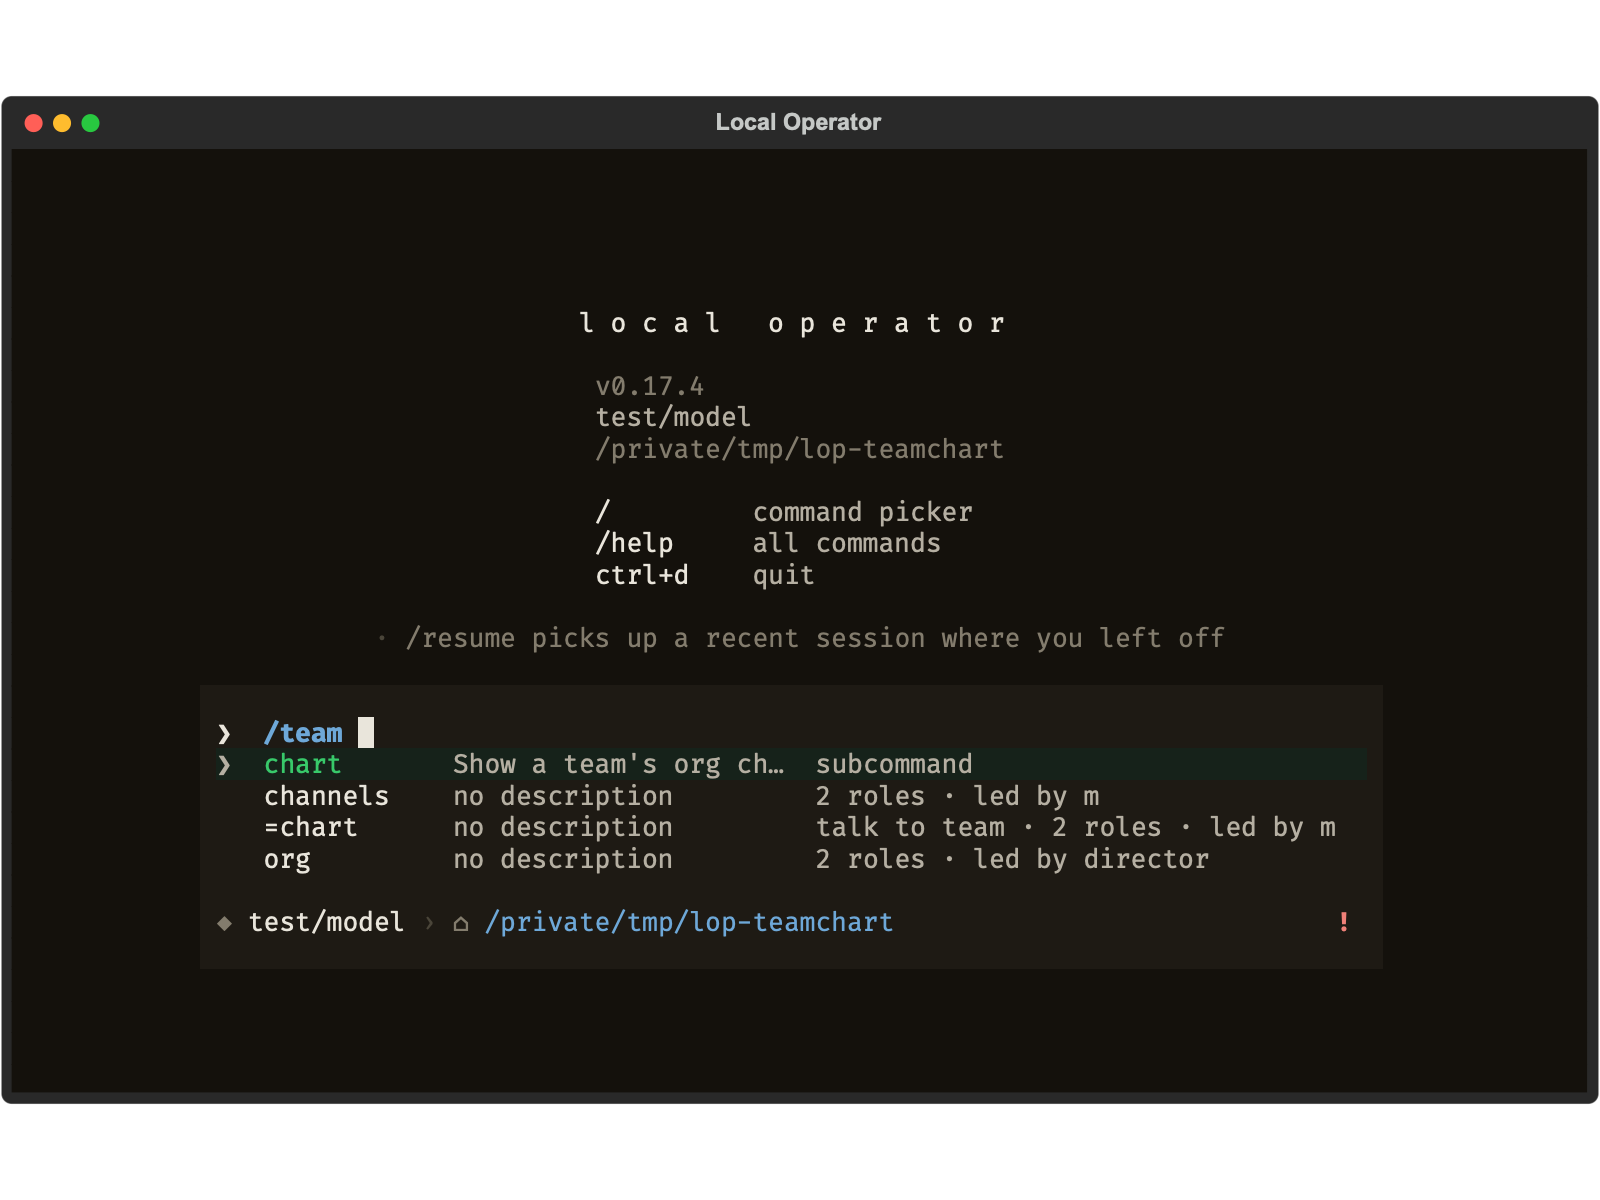
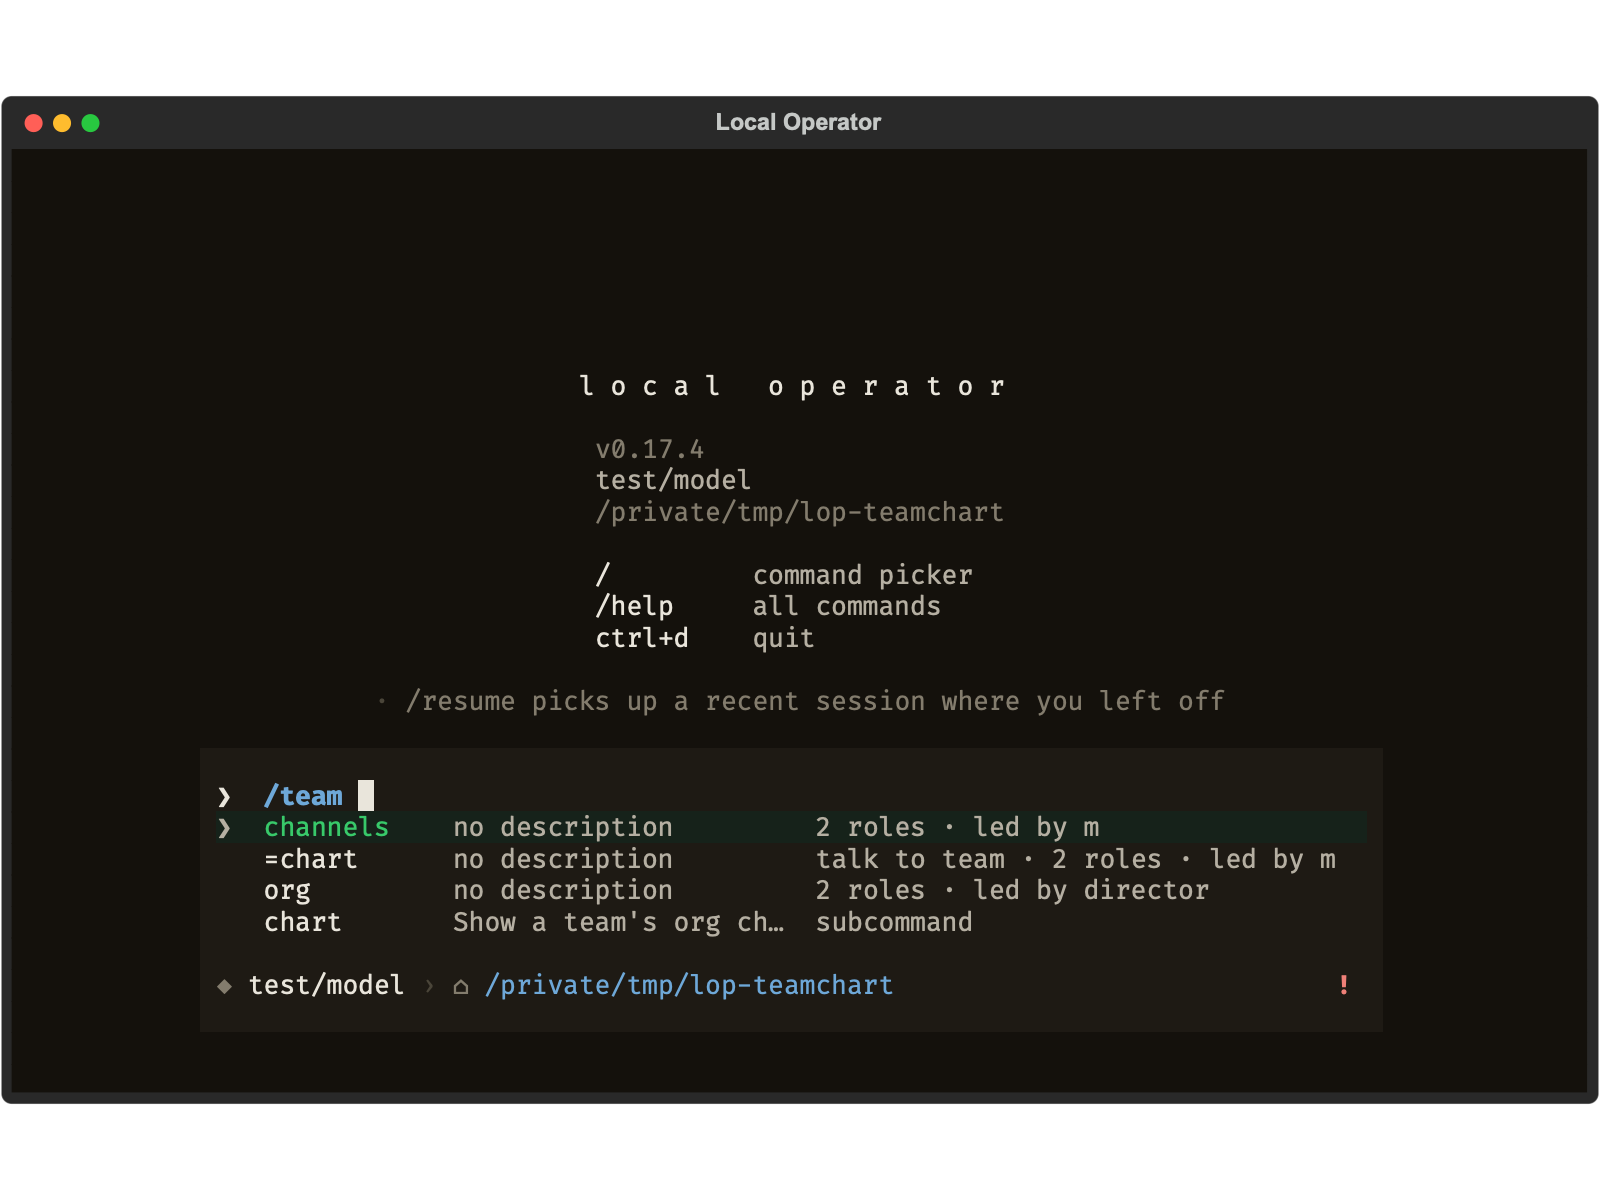
fix(team-chart): order /team picker team-first so Tab never charts
Integration fix for the merged tree: origin/main advanced with #250 ("run
slash commands inline"), which added the D5-regression invariant
test_completing_a_team_name_keeps_the_parked_hint — a bare `/team ` + Tab must
complete the sole team and park the switch/send hint. Our picker put the `chart`
subcommand row FIRST, so Tab completed to `chart` and broke that invariant, and
two of our own picker tests (which set editor.text directly) stopped opening the
list at all under #250's caret-anchored detection.

Reorder the first-slot picker so TEAM NAME rows come first and the `chart`
subcommand row is appended LAST. argument_suggestions returns list order for an
empty query, so bare Tab now completes the first/sole TEAM, never the
subcommand — preserving #250's invariant and improving collision-safety (Tab
never silently opens a chart when the user meant to message a team). `chart`
stays discoverable: it is visible in the list and the matcher ranks it to the
top the moment `c`/`ch`/`chart` is typed (a typed query is scored, not
list-ordered).

Editor two-level tracking: `/team` now refreshes the picker ONLY when crossing
into/out of the `chart ` second slot (tracked as a boolean, normalizing None and
"" to the same non-chart state), not on every first-token change. A team-NAME
first token is the talk path whose choice set never changes, so it posts no
refresh — the refresh handler clears the notice, which would wipe the
[…]

diff --git a/tests/unit/tui/test_team_chart.py b/tests/unit/tui/test_team_chart.py
@@ -69,6 +69,21 @@ async def _boot(pilot, app: OperatorApp) -> None:
             return
 
 
+async def _type(pilot, text: str) -> None:
+    """Type ``text`` into the focused editor via real key presses.
+
+    Post-#250 the picker's argument detection is caret-anchored: it syncs during
+    ``load_text`` while the caret is still at the origin, so setting ``editor.text``
+    directly and then moving the caret no longer opens the argument list. Driving
+    the buffer through real key presses is the path the app actually takes and the
+    only one that opens the picker — the same approach ``test_slash_echo`` uses.
+    """
+    for char in text:
+        await pilot.press("slash" if char == "/" else ("space" if char == " " else char))
+    await pilot.pause()
+    await pilot.pause()
+
+
 # -- routing dispatch table -------------------------------------------------
 
 
@@ -212,7 +227,16 @@ async def test_chart_unknown_team_is_an_error() -> None:
 
 
 @pytest.mark.asyncio
-async def test_picker_first_slot_offers_chart_subcommand_then_teams() -> None:
+async def test_picker_first_slot_offers_teams_first_then_chart_subcommand() -> None:
+    """The `/team ` first slot lists TEAM NAMES first, then the `chart` row.
+
+    Team-first is the ordering #250's D5 regression pins: a bare `/team ` + Tab
+    must complete the sole/first TEAM (the common action is talking to a team),
+    never the subcommand — so the `chart` row is offered but is NOT the default
+    completion. It stays discoverable (present in the list, and the normal
+    matcher ranks it up the moment the user types `c`/`ch`/`chart`).
+    """
+
     session = FakeSession()
     session.team_registry = _registry(
         TeamEditFields(name="org", manager="director", members=[TeamMember(role="coder")]),
@@ -221,23 +245,51 @@ async def test_picker_first_slot_offers_chart_subcommand_then_teams() -> None:
     app = OperatorApp(lambda: _factory(session))
     async with app.run_test(size=(120, 40)) as pilot:
         await _boot(pilot, app)
+        app.query_one(Editor).focus()
+        await _type(pilot, "/team ")
         editor = app.query_one(Editor)
-        editor.text = "/team "
-        editor.cursor_location = (0, len(editor.text))
-        await pilot.pause()
-        await pilot.pause()
         rows = [(c.name, c.detail) for c in editor.picker._choices]
-    # The subcommand row is FIRST and tagged.
-    assert rows[0] == ("chart", "subcommand")
-    # U3: a team literally named `chart` still appears as its own row, but it
-    # completes to the `=chart` ESCAPE (not the bare name, which would route to
-    # the subcommand) and its detail names the talk path — so the collision is
-    # resolvable from within the picker that creates it.
+    # Team rows come FIRST; the subcommand row is present but LAST (never the
+    # default Tab completion — see test_completing_a_team_name_keeps_the_parked_hint).
+    assert rows, "the team list must be populated"
+    assert rows[0][0] != "chart", f"a team must lead, not the subcommand: {rows}"
+    # The `chart` subcommand row is still offered — discoverable, ranked by query.
+    assert ("chart", "subcommand") in rows
+    assert rows[-1] == ("chart", "subcommand"), f"subcommand must rank last: {rows}"
+    # U3: a team literally named `chart` still appears, completing to the `=chart`
+    # ESCAPE (not the bare name, which would route to the subcommand); its detail
+    # names the talk path, so the collision is resolvable from the picker.
     assert ("=chart", "talk to team · 2 roles · led by m") in rows
     # A non-colliding team keeps its plain name.
     assert any(name == "org" for name, _ in rows)
     # The bare `chart` name is NOT offered as a team row (it would mis-route).
     assert ("chart", "2 roles · led by m") not in rows
+
+
+@pytest.mark.asyncio
+async def test_bare_tab_completes_a_team_not_the_chart_subcommand() -> None:
+    """A bare `/team ` + Tab fills the sole TEAM, not the `chart` subcommand.
+
+    The collision-safety guarantee behind team-first: Tab never silently opens a
+    chart when the user meant to message their team. Mirrors #250's
+    test_completing_a_team_name_keeps_the_parked_hint invariant for our ordering.
+    """
+
+    session = FakeSession()
+    session.team_registry = _registry(
+        TeamEditFields(name="security", manager="manager", members=[TeamMember(role="coder")]),
+    )
+    app = OperatorApp(lambda: _factory(session))
+    async with app.run_test(size=(120, 40)) as pilot:
+        await _boot(pilot, app)
+        app.query_one(Editor).focus()
+        await _type(pilot, "/team ")
+        editor = app.query_one(Editor)
+        assert editor.picker.is_open(), "the team list must open"
+        await pilot.press("tab")
+        await pilot.pause()
+        text = editor.text
+    assert text == "/team security ", text
 
 
 @pytest.mark.asyncio
@@ -250,11 +302,9 @@ async def test_picker_second_slot_reoffers_teams_feeding_the_chart() -> None:
     app = OperatorApp(lambda: _factory(session))
     async with app.run_test(size=(120, 40)) as pilot:
         await _boot(pilot, app)
+        app.query_one(Editor).focus()
+        await _type(pilot, "/team chart ")
         editor = app.query_one(Editor)
-        editor.text = "/team chart "
-        editor.cursor_location = (0, len(editor.text))
-        await pilot.pause()
-        await pilot.pause()
         names = [c.name for c in editor.picker._choices]
     # Second slot: `chart <name>` compound rows that complete to the chart.
     assert "chart org" in names

diff --git a/local_operator/tui/app.py b/local_operator/tui/app.py
@@ -2901,22 +2901,27 @@ class OperatorApp(App[None]):
         return choices
 
     def _team_argument_choices(self, editor: Any) -> list[ArgumentChoice]:
-        """Rows for the ``/team <…>`` list: the `chart` subcommand, then teams.
+        """Rows for the ``/team <…>`` list: team NAMES first, then `chart`.
 
-        Two-level, decided by the BUFFER like ``/mcp``'s builder: with nothing
-        typed yet the first argument slot offers the reserved `chart`
-        subcommand row FIRST (tagged so it reads as different in kind from a
-        team name — the same separation `/mcp` draws between verb rows and
-        server rows), then every team name (so a team literally named `chart`
-        still appears as its own row beneath the subcommand and is never
-        hidden). Once `chart ` is in the buffer the second slot re-offers TEAM
-        NAMES as `chart <name>` compound rows that FEED the chart — completing
-        one lands the ready-to-run `/team chart <name>`.
+        Two-level, decided by the BUFFER like ``/mcp``'s builder. In the first
+        argument slot the TEAM NAMES come first and the reserved `chart`
+        subcommand row is appended AFTER them. Order matters because it decides
+        the default completion: ``argument_suggestions`` returns rows in list
+        order for an empty query, so a bare ``/team `` + Tab completes the sole
+        (or first) TEAM, never the subcommand. That preserves #250's invariant
+        (Tab fills the sole team and parks the switch/send hint) AND improves
+        collision-safety: the common action on ``/team `` is TALKING to a team,
+        so Tab must never silently open a chart when the user meant to message.
+        The `chart` row is still fully discoverable — it is visible in the list
+        and the normal matcher ranks it to the top the moment the user types
+        ``c``/``ch``/``chart`` (a typed query is scored, not list-ordered).
 
-        The compound-name shape is the same crank `/mcp login <server>` uses:
-        the matcher compares against the WHOLE argument, so the server/team
-        rows must carry the leading verb or they would not match once it is
-        typed.
+        Once ``chart `` is in the buffer the second slot re-offers TEAM NAMES as
+        ``chart <name>`` compound rows that FEED the chart — completing one
+        lands the ready-to-run ``/team chart <name>``. The compound-name shape
+        is the same crank ``/mcp login <server>`` uses: the matcher compares
+        against the WHOLE argument, so the rows must carry the leading verb or
+        they would not match once it is typed.
         """
 
         from local_operator.tui.widgets.command_picker import slash_argument
@@ -2934,14 +2939,10 @@ class OperatorApp(App[None]):
                 )
                 for team in teams
             ]
-        # First slot: the subcommand row first, then team names.
-        rows: list[ArgumentChoice] = [
-            ArgumentChoice(
-                "chart",
-                "Show a team's org chart",
-                detail="subcommand",
-            )
-        ]
+        # First slot: TEAM NAMES first (so bare Tab completes a team, not the
+        # subcommand — #250's invariant + collision-safety), then the `chart`
+        # subcommand row last.
+        rows: list[ArgumentChoice] = []
         # U3 — a team whose name collides with the reserved `chart` word cannot
         # be talked to via its plain name from the picker: completing `chart`
         # routes to the SUBCOMMAND, not the team. So its row completes to the
@@ -2960,6 +2961,15 @@ class OperatorApp(App[None]):
                 )
             else:
                 rows.append(team)
+        # The subcommand row is offered AFTER the team names — discoverable and
+        # rank-able by query, but never the default Tab completion (see above).
+        rows.append(
+            ArgumentChoice(
+                "chart",
+                "Show a team's org chart",
+                detail="subcommand",
+            )
+        )
         return rows
 
     def _team_list_block(self, teams: list[Any]) -> RichBlock:

diff --git a/local_operator/tui/widgets/editor.py b/local_operator/tui/widgets/editor.py
@@ -2680,11 +2680,46 @@ class Editor(TextArea):
                 # command WORD, so without this the first-slot rows would stay
                 # up after the subcommand was completed and the second slot
                 # would have nothing to offer. Tracked rather than refreshed per
-                # keystroke: the row set only changes when the first token does.
-                subcommand = list_argument.partition(" ")[0].lower() if list_argument else ""
-                if subcommand != self._argument_subcommand:
-                    self._argument_subcommand = subcommand
-                    self.post_message(RefreshArgumentChoices(command))
+                # keystroke: the row set only changes when the sub-slot does.
+                first_tok, sep, _tail = (list_argument or "").partition(" ")
+                if command == "mcp":
+                    # `/mcp` is per-verb: every verb has a distinct server list,
+                    # so the tracking key is the verb token and any change posts
+                    # a refresh (verbs while it is bare, servers once a verb is
+                    # chosen — the builder reads the space itself).
+                    subcommand = first_tok.lower() if list_argument else ""
+                    if subcommand != self._argument_subcommand:
+                        self._argument_subcommand = subcommand
+                        self.post_message(RefreshArgumentChoices(command))
+                else:
+                    # `/team` has exactly ONE thing that changes its choice set:
+                    # crossing into or out of the `chart ` SECOND slot (first
+                    # token is the reserved `chart` word AND a space follows —
+                    # first-slot team names ⇄ second-slot chart targets). Track
+                    # that boolean, not the raw first token: a team-NAME first
+                    # token (`/team security `) is the talk path whose choice set
+                    # never changes, so it must NOT post a refresh. The refresh
+                    # handler clears the notice, which would wipe the switch/send
+                    # parked-caret hint the block below sets — the exact D5
+                    # regression #250 guards
+                    # (`test_completing_a_team_name_keeps_the_parked_hint`). And
+                    # tracking the boolean (not the token) is what makes the
+                    # second slot refill at all: `chart`→`chart ` leaves the
+                    # token unchanged but flips the boundary, so a token-keyed
+                    # tracker would never fire on the space that opens slot two.
+                    chart_second_slot = "chart" if (first_tok.lower() == "chart" and sep) else ""
+                    # Normalize the prior state: both ``None`` (never tracked)
+                    # and ``""`` (first slot) mean "not in the chart second
+                    # slot", so entering ``/team `` for the first time is NOT a
+                    # boundary crossing and must not post a refresh — otherwise
+                    # the very first sync would clear the switch/send notice
+                    # before it is set (D5). Only a real cross into or out of
+                    # ``chart `` fires.
+                    was_chart_slot = self._argument_subcommand == "chart"
+                    is_chart_slot = chart_second_slot == "chart"
+                    self._argument_subcommand = chart_second_slot
+                    if was_chart_slot != is_chart_slot:
+                        self.post_message(RefreshArgumentChoices(command))
             self._picker.sync_argument(list_argument)
             # U1/U2 discoverability hint. The moment a NAME+message name is
             # autofilled (or hand-typed) to `/<cmd> <name> ` with an empty tail,

diff --git a/scripts/org_chart_shot.py b/scripts/org_chart_shot.py
@@ -178,15 +178,19 @@ async def main() -> None:
             if app._session is not None:
                 break
         if scenario.startswith("picker-"):
-            # Type into the real editor to open the argument list; the frame is
-            # the picker, not a chart.
-            editor = app.query_one(Editor)
-            editor.text = {
+            # Drive the argument list open through REAL key presses. Post-#250
+            # the picker's detection is caret-anchored, so setting editor.text
+            # directly no longer opens the list — only typing does (the same
+            # path the app takes and the tests use).
+            app.query_one(Editor).focus()
+            buffer = {
                 "picker-team": "/team ",
                 "picker-ch": "/team ch",
                 "picker-chart": "/team chart ",
             }[scenario]
-            editor.cursor_location = (0, len(editor.text))
+            for char in buffer:
+                key = "slash" if char == "/" else ("space" if char == " " else char)
+                await pilot.press(key)
             await pilot.pause()
             await pilot.pause()
         else:
